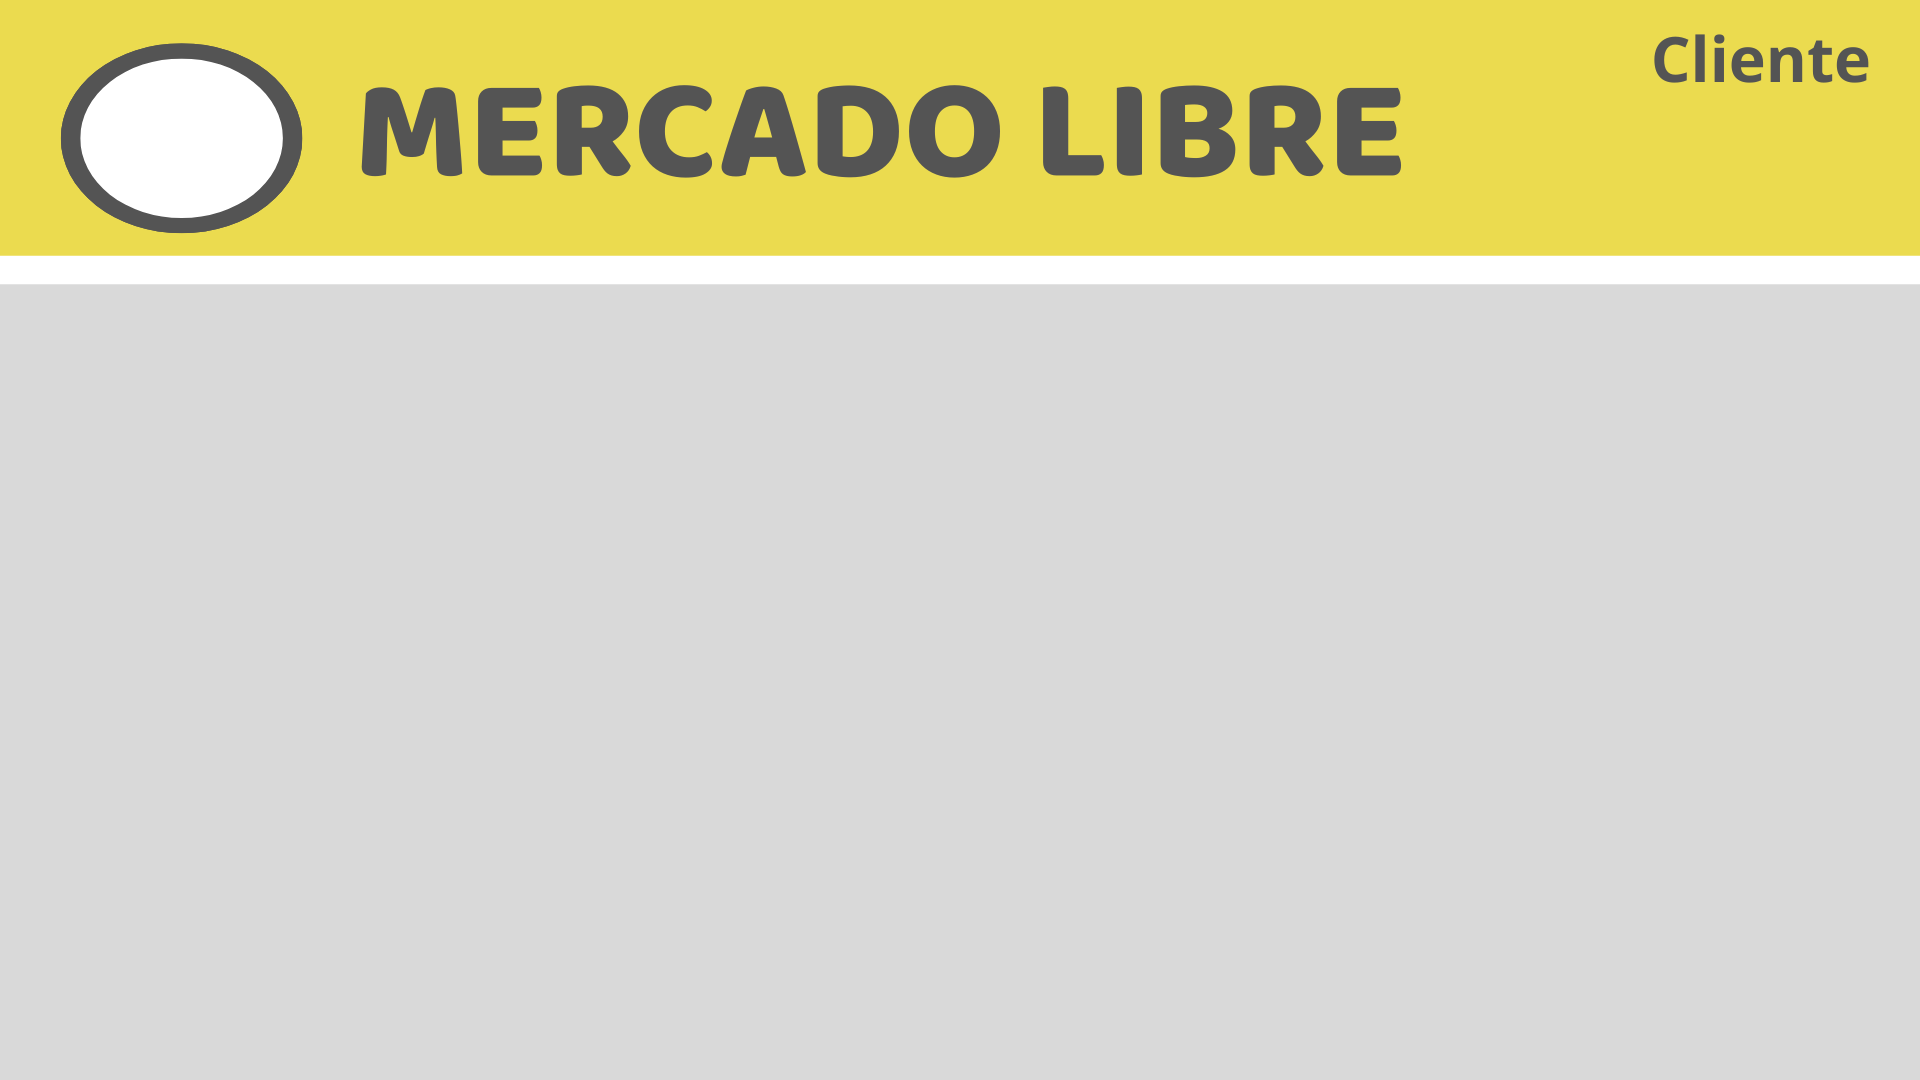
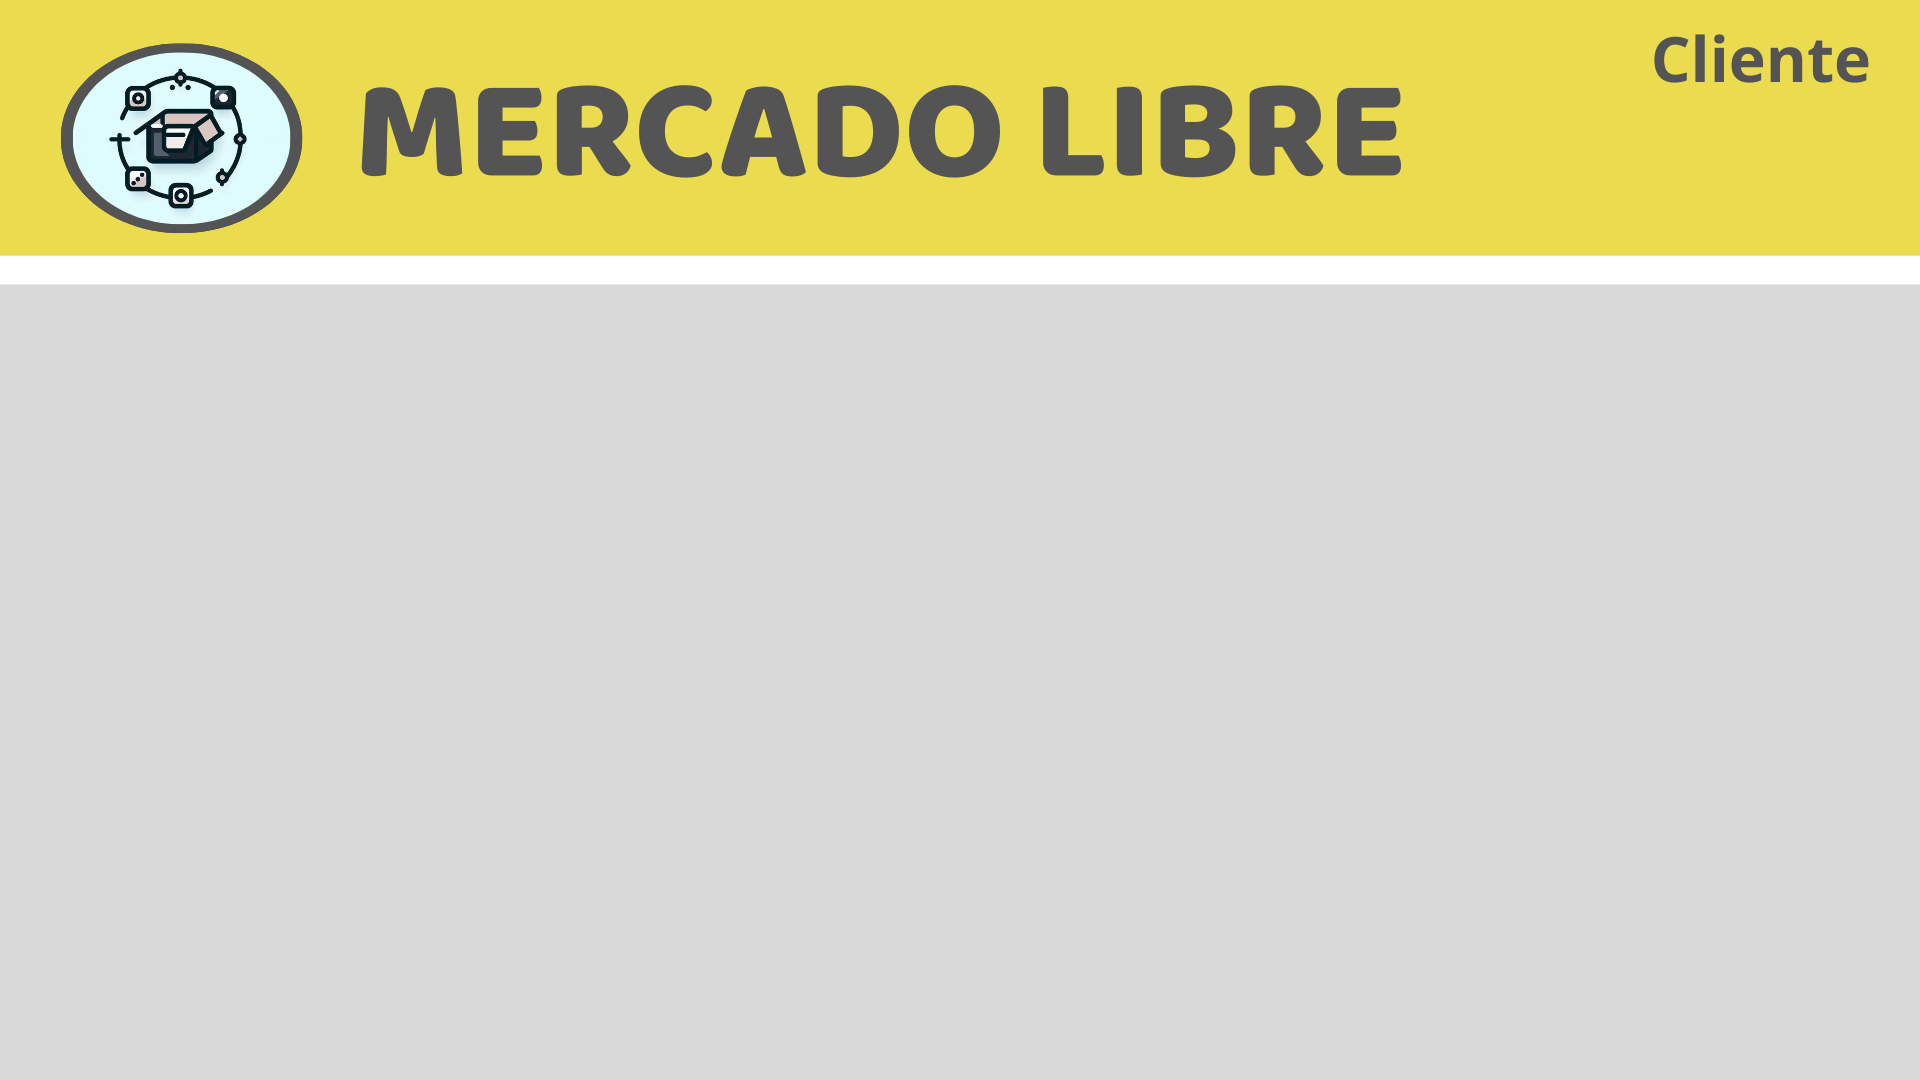
CreacionVentanaMenu
Sin botones funcionales

Changed region(s): [[0.0312, 0.0306, 0.1562, 0.2139]]

diff --git a/MercadoLibreCliente/src/co/edu/unbosque/controller/Controller.java b/MercadoLibreCliente/src/co/edu/unbosque/controller/Controller.java
@@ -12,7 +12,7 @@ import co.edu.unbosque.util.exception.CapitalException;
 import co.edu.unbosque.util.exception.CharacterException;
 import co.edu.unbosque.util.exception.EqualPasswordException;
 import co.edu.unbosque.util.exception.NumberException;
-import co.edu.unbosque.util.exception.SameUserExcepetion;
+import co.edu.unbosque.util.exception.UsernameException;
 import co.edu.unbosque.util.exception.SimbolException;
 import co.edu.unbosque.util.exception.SmallException;
 import co.edu.unbosque.util.exception.SymbolException;
@@ -80,28 +80,14 @@ public class Controller implements ActionListener {
 
 			String usuario = vf.getVpc().getPis().getNombreUsuario().getText();
 			String contrasena = vf.getVpc().getPis().getContrasena();
-			try {
-				ExceptionCheker.checkerCharacter(usuario);
-				ExceptionCheker.checkerPasword(contrasena);
+			if (mf.getClienteDAO().encontrarUsuario(usuario, contrasena) != null) {
 
-				if (mf.getClienteDAO().encontrarUsuario(usuario, contrasena) != null) {
+				vf.getVpc().getPis().setVisible(false);
+				vf.getVpc().getPcm().setVisible(true);
+				clienteActual = mf.getClienteDAO().encontrarUsuario(usuario, contrasena);
 
-					vf.getVpc().getPis().setVisible(false);
-					vf.getVpc().getPc().setVisible(true);
-					clienteActual = mf.getClienteDAO().encontrarUsuario(usuario, contrasena);
-
-				}
-
-			} catch (CharacterException e1) {
-				vf.getVemer().mostrar("No cumple los requisitos de caracteres.");
-			} catch (CapitalException e1) {
-				vf.getVemer().mostrar("Debe contener al menos una mayuscula.");
-			} catch (SmallException e1) {
-				vf.getVemer().mostrar("Debe contener al menos una minuscula.");
-			} catch (NumberException e1) {
-				vf.getVemer().mostrar("Debe contener al menos un número.");
-			} catch (SymbolException e1) {
-				vf.getVemer().mostrar("Debe contener al menos un simbolo.");
+			}else {
+				vf.getVemer().mostrar("Problema en el usuario o contraseña.");
 			}
 
 			break;
@@ -123,10 +109,10 @@ public class Controller implements ActionListener {
 
 				for (Cliente c : mf.getClienteDAO().getListaClientes()) {
 					if (c.getNombre().equals(usuario)) {
-						throw new SameUserExcepetion();
+						throw new UsernameException();
 					}
 				}
-				
+
 				mf.getClienteDAO().crear(new Cliente(usuario, contrasena1));
 				vf.getVemer().mostrar("Usuario creado con exito, Regrese al menu para iniciar sesión.");
 
@@ -142,7 +128,7 @@ public class Controller implements ActionListener {
 				vf.getVemer().mostrar("Debe contener al menos un número.");
 			} catch (SymbolException e1) {
 				vf.getVemer().mostrar("Debe contener al menos un simbolo.");
-			} catch (SameUserExcepetion e1) {
+			} catch (UsernameException e1) {
 				vf.getVemer().mostrar("Ya existe otro usuario con ese nombre.");
 			}
 

diff --git a/MercadoLibreCliente/src/co/edu/unbosque/view/PanelClienteMenu.java b/MercadoLibreCliente/src/co/edu/unbosque/view/PanelClienteMenu.java
@@ -1,0 +1,83 @@
+package co.edu.unbosque.view;
+
+import java.awt.Color;
+import java.awt.Image;
+import java.awt.image.BufferedImage;
+import java.io.File;
+import java.io.IOException;
+
+import javax.imageio.ImageIO;
+import javax.swing.ImageIcon;
+import javax.swing.JButton;
+import javax.swing.JLabel;
+import javax.swing.JPanel;
+
+public class PanelClienteMenu extends JPanel {
+
+	private JLabel fondo;
+
+	private JButton btnVolver, btnCarrito, btnHistorial, btnTienda, btnFavoritos;
+	
+	public PanelClienteMenu() throws IOException {
+		
+		setBounds(0, 0, 1290, 750);
+		setLayout(null);
+
+		fondo = new JLabel();
+		BufferedImage fd = ImageIO.read(new File("src/co/edu/unbosque/view/FondoCMenu.png"));
+		ImageIcon imagenFondo = new ImageIcon(fd);
+		Image fdRedim = fd.getScaledInstance(1290, 750, Image.SCALE_SMOOTH);
+		fondo.setIcon(new ImageIcon(fdRedim));
+		fondo.setBounds(0, 0, 1290, 750);
+		
+		btnVolver = new JButton();
+		btnVolver.setBounds(1120, 70, 120, 70);
+		btnVolver.setFocusable(false);
+		btnVolver.setBackground(new Color(0, 0, 0));
+		btnVolver.setContentAreaFilled(false);
+		btnVolver.setOpaque(false);
+		//btnVolver.setBorderPainted(false);
+		btnVolver.setVisible(true);
+		add(btnVolver);
+		
+		btnCarrito = new JButton();
+		btnCarrito.setBounds(165, 550, 150, 150);
+		btnCarrito.setFocusable(false);
+		btnCarrito.setBackground(new Color(0, 0, 0));
+		btnCarrito.setContentAreaFilled(false);
+		btnCarrito.setOpaque(false);
+		btnCarrito.setVisible(true);
+		add(btnCarrito);
+
+		btnHistorial = new JButton();
+		btnHistorial.setBounds(415, 550, 150, 150);
+		btnHistorial.setFocusable(false);
+		btnHistorial.setBackground(new Color(0, 0, 0));
+		btnHistorial.setContentAreaFilled(false);
+		btnHistorial.setOpaque(false);
+		btnHistorial.setVisible(true);
+		add(btnHistorial);
+		
+		btnTienda = new JButton();
+		btnTienda.setBounds(690, 550, 175, 150);
+		btnTienda.setFocusable(false);
+		btnTienda.setBackground(new Color(0, 0, 0));
+		btnTienda.setContentAreaFilled(false);
+		btnTienda.setOpaque(false);
+		btnTienda.setVisible(true);
+		add(btnTienda);
+		
+		btnFavoritos = new JButton();
+		btnFavoritos.setBounds(985, 550, 150, 150);
+		btnFavoritos.setFocusable(false);
+		btnFavoritos.setBackground(new Color(0, 0, 0));
+		btnFavoritos.setContentAreaFilled(false);
+		btnFavoritos.setOpaque(false);
+		btnFavoritos.setVisible(true);
+		add(btnFavoritos);
+		
+		add(fondo); 
+
+	}
+
+}

diff --git a/MercadoLibreCliente/src/co/edu/unbosque/view/VentanaPrincipalC.java b/MercadoLibreCliente/src/co/edu/unbosque/view/VentanaPrincipalC.java
@@ -10,7 +10,7 @@ public class VentanaPrincipalC extends JFrame {
 	private PanelPrincipalC ppc;
 	private PanelIniciarSesion pis;
 	private PanelCrearU pcu;
-	private PanelCliente pc;
+	private PanelClienteMenu pcm;
 
 	public VentanaPrincipalC() throws IOException {
 
@@ -23,10 +23,12 @@ public class VentanaPrincipalC extends JFrame {
 		ppc = new PanelPrincipalC();
 		pis = new PanelIniciarSesion();
 		pcu = new PanelCrearU();
+		pcm = new PanelClienteMenu();
 
 		add(ppc).setVisible(true);
 		add(pis).setVisible(false);
 		add(pcu).setVisible(false);
+		add(pcm).setVisible(false);
 
 	}
 
@@ -54,12 +56,12 @@ public class VentanaPrincipalC extends JFrame {
 		this.pcu = pcu;
 	}
 
-	public PanelCliente getPc() {
-		return pc;
+	public PanelClienteMenu getPcm() {
+		return pcm;
 	}
 
-	public void setPc(PanelCliente pc) {
-		this.pc = pc;
+	public void setPc(PanelClienteMenu pcm) {
+		this.pcm = pcm;
 	}
 	
 

diff --git a/MercadoLibreCliente/src/co/edu/unbosque/view/PanelIniciarSesion.java b/MercadoLibreCliente/src/co/edu/unbosque/view/PanelIniciarSesion.java
@@ -77,13 +77,6 @@ public class PanelIniciarSesion extends JPanel {
 		textContra.setFont(new Font("Baloo", Font.BOLD, 26));
 		add(textContra);
 
-		textEstandar = new JLabel();
-		textEstandar.setBounds(480, 441, 800, 60);
-		textEstandar.setText(
-				"Debe contener 8 caracteres, una mayuscula, una minuscula, un simbolo y al menos un número.  ");
-		textEstandar.setFont(new Font("Baloo", Font.BOLD, 10));
-		add(textEstandar);
-
 		add(fondo);
 
 	}

diff --git a/MercadoLibreCliente/src/co/edu/unbosque/util/exception/UsernameException.java b/MercadoLibreCliente/src/co/edu/unbosque/util/exception/UsernameException.java
@@ -1,7 +1,7 @@
 package co.edu.unbosque.util.exception;
 
-public class SameUserExcepetion extends Exception {
-	public SameUserExcepetion() {
+public class UsernameException extends Exception {
+	public UsernameException() {
 		super("No se puede repetir usuario.");
 
 	}
